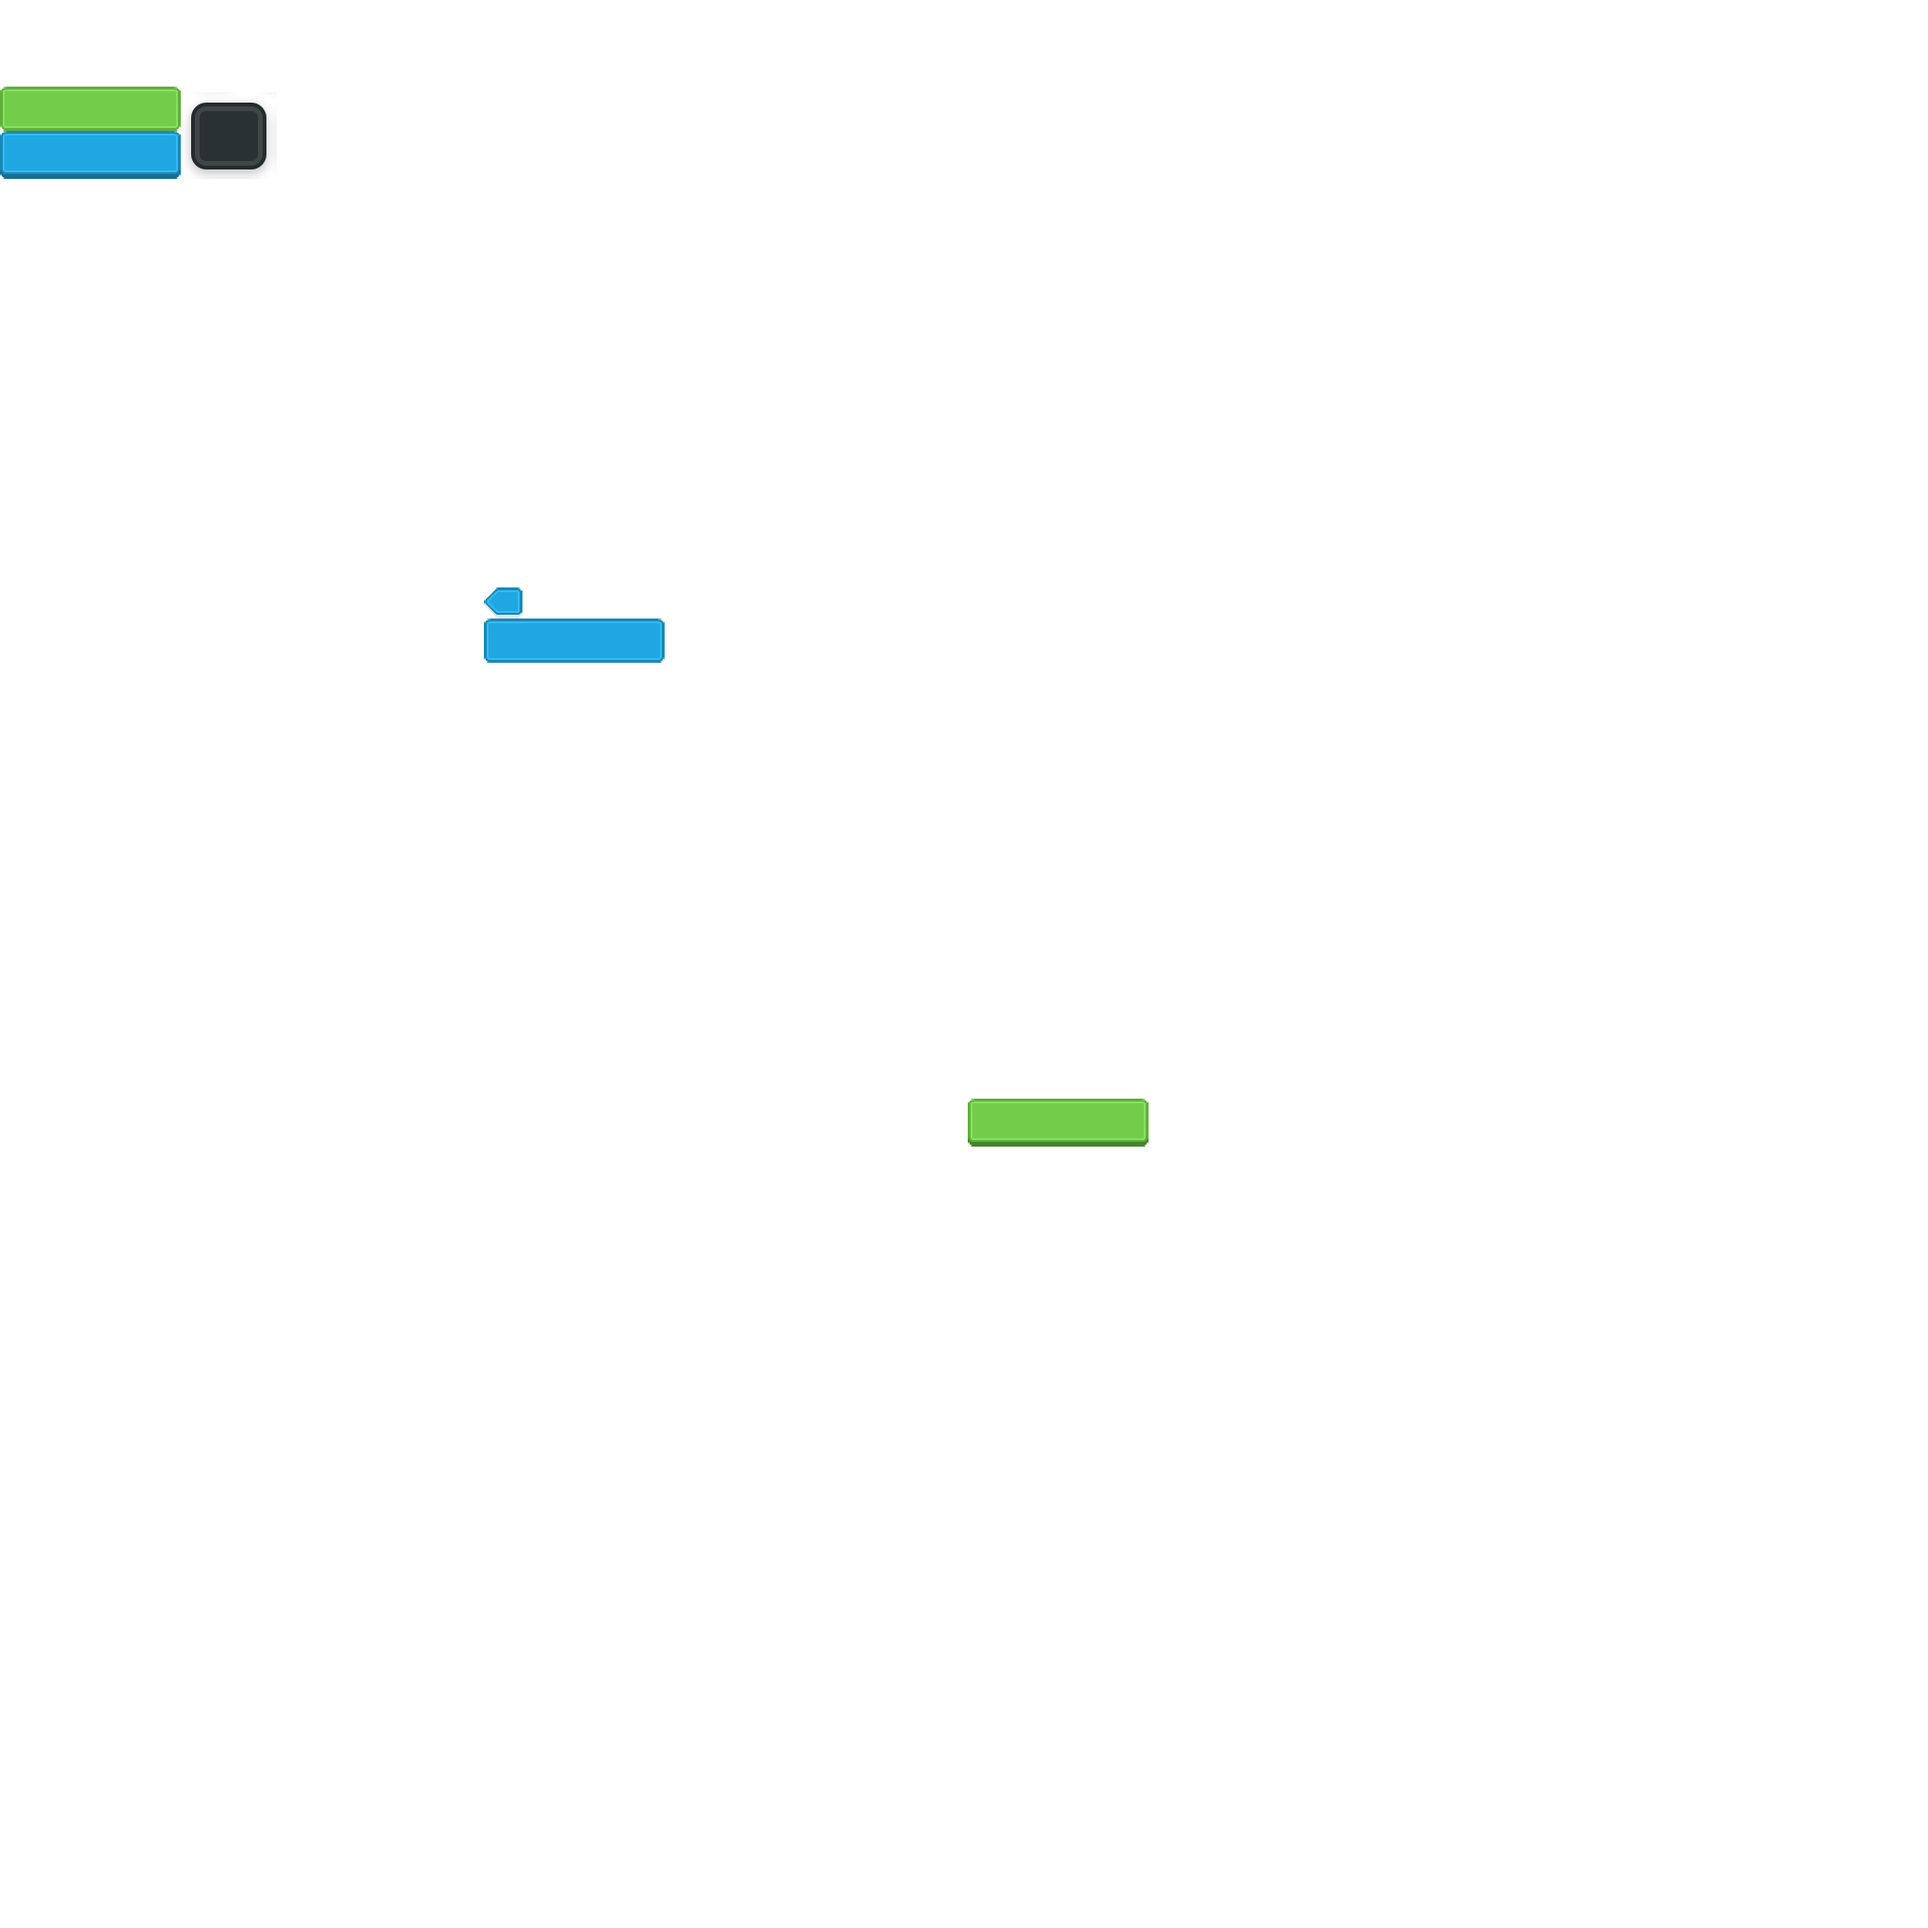
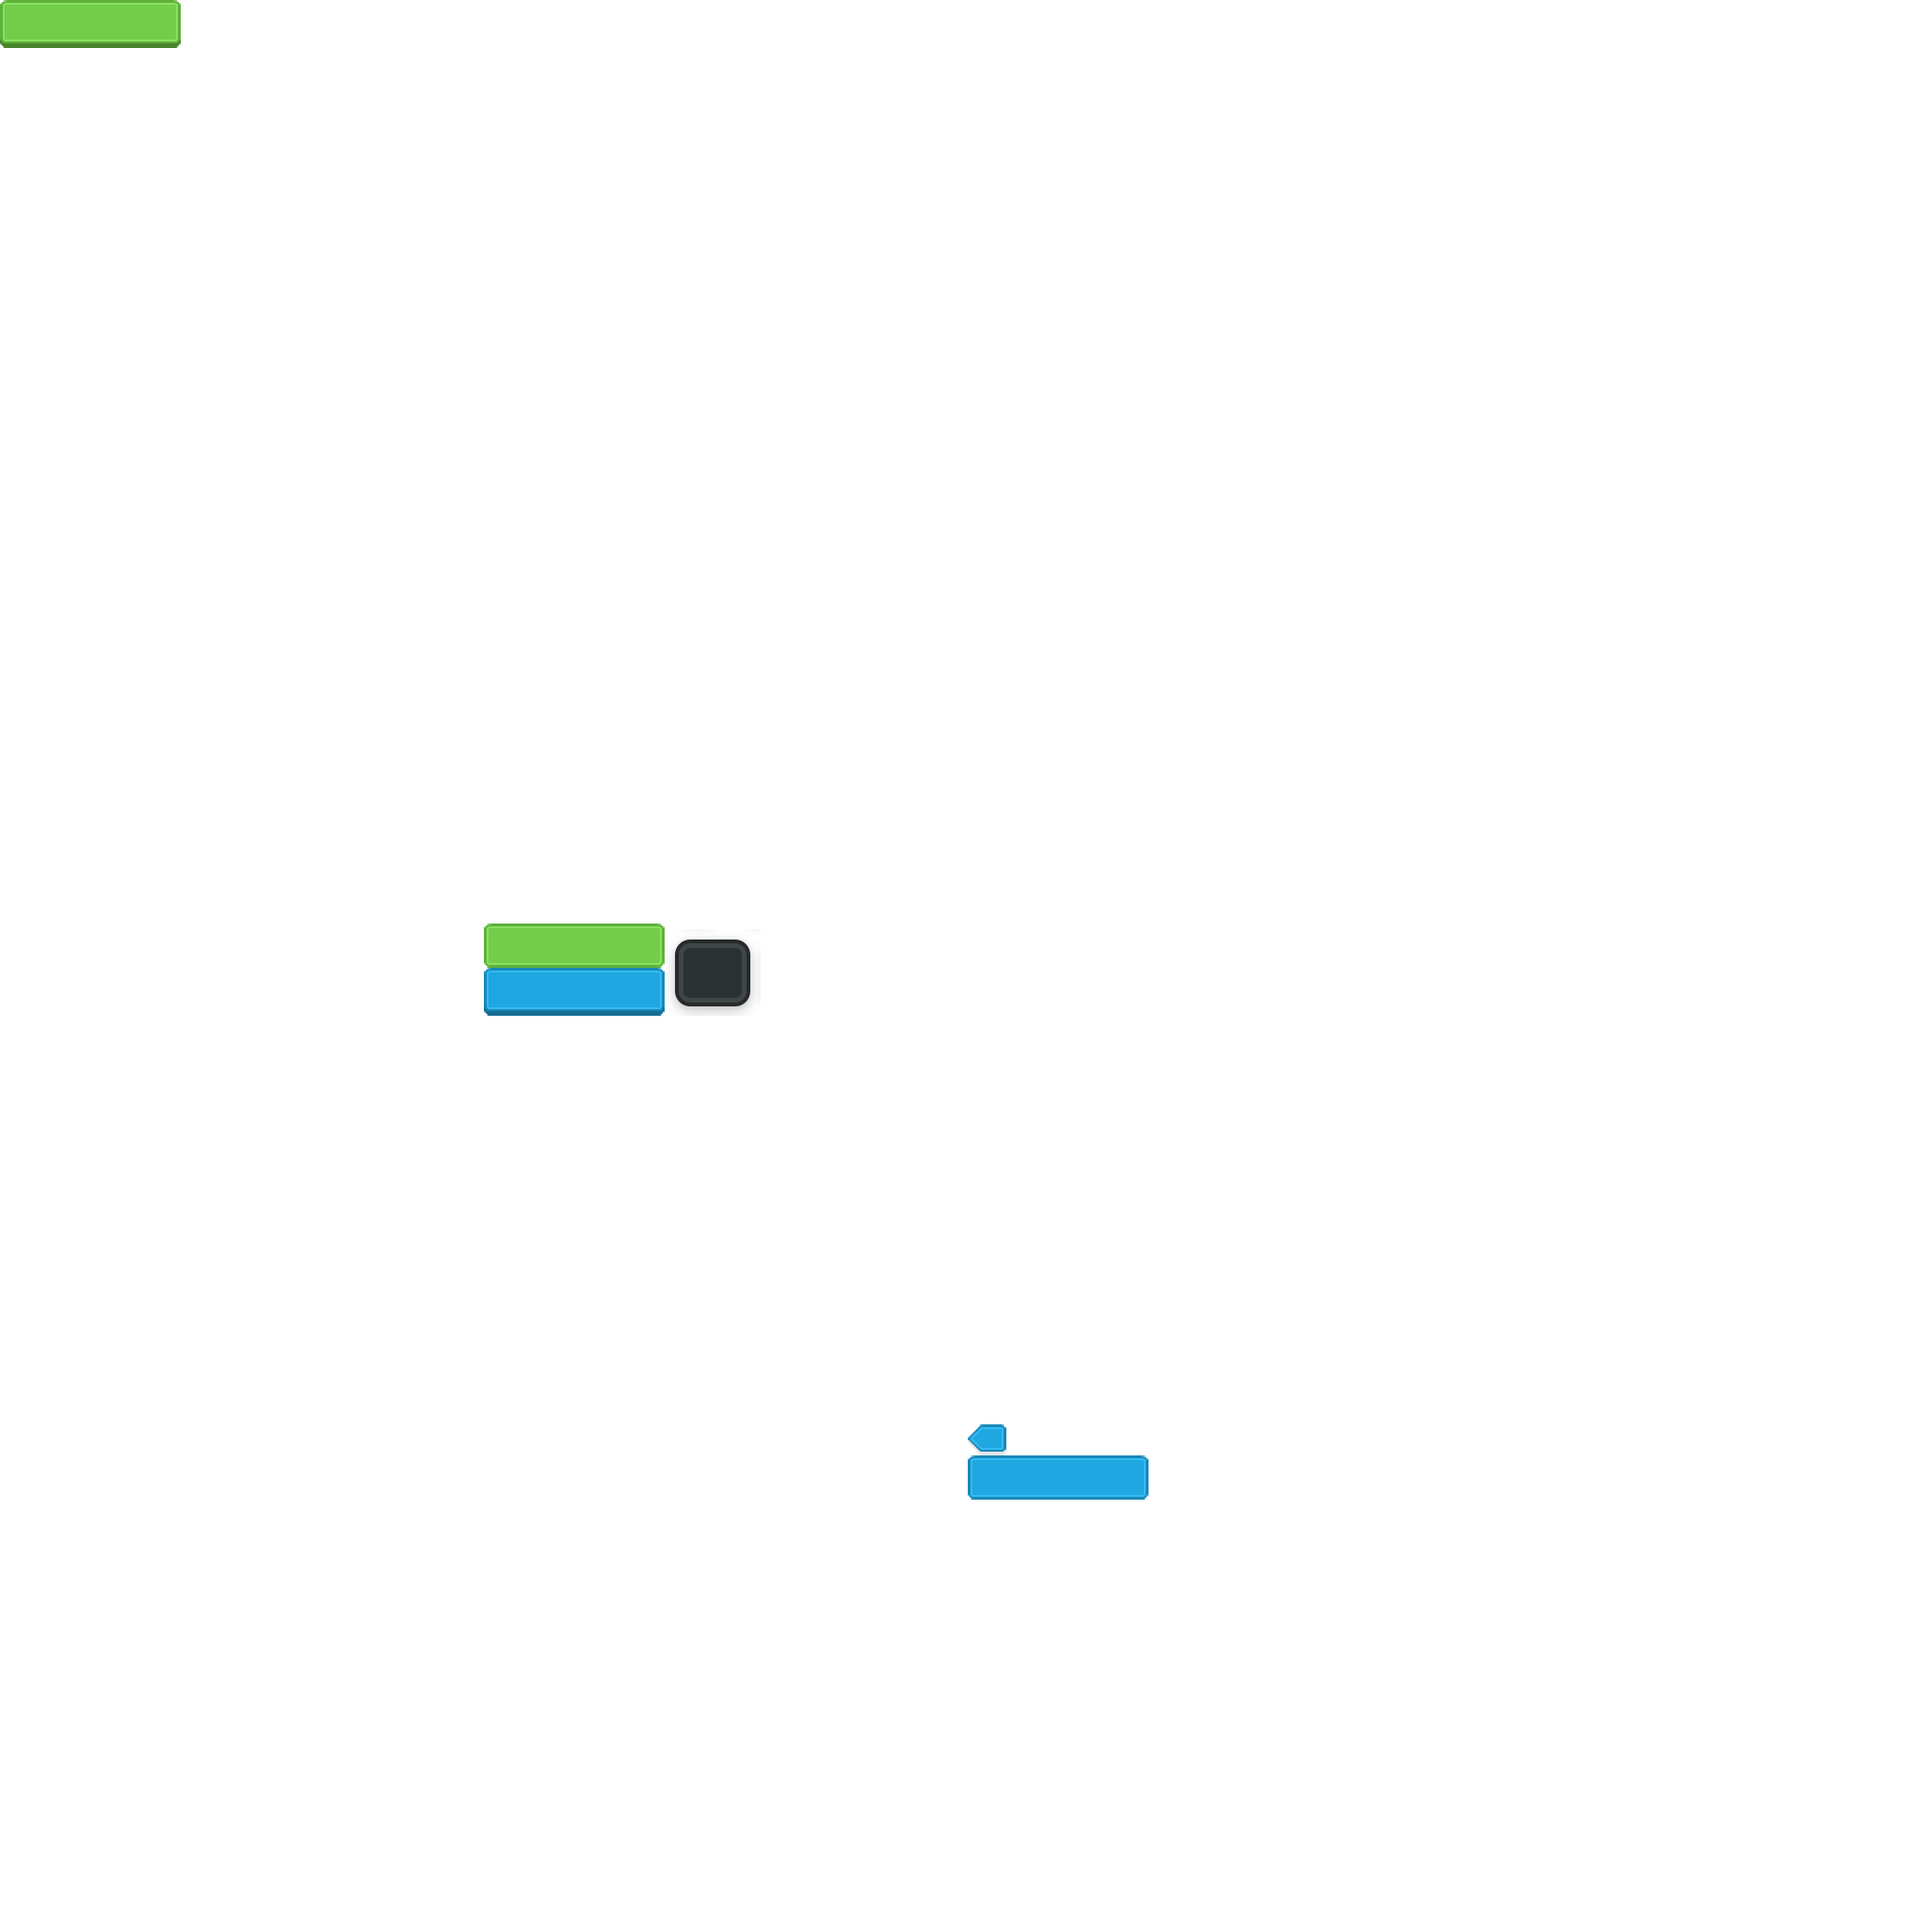
Add connection indicator

diff --git a/core/src/com/jaeheonshim/ersgame/screen/MainScreen.java b/core/src/com/jaeheonshim/ersgame/screen/MainScreen.java
@@ -13,6 +13,8 @@ import com.badlogic.gdx.utils.ScreenUtils;
 import com.badlogic.gdx.utils.viewport.ExtendViewport;
 import com.jaeheonshim.ersgame.ERSGame;
 import com.jaeheonshim.ersgame.game.CardType;
+import com.jaeheonshim.ersgame.net.ConnectionStatus;
+import com.jaeheonshim.ersgame.scene.ConnectionStatusLabel;
 import com.jaeheonshim.ersgame.scene.PileDisplayActor;
 import com.jaeheonshim.ersgame.scene.shaded.ERSLabel;
 import com.jaeheonshim.ersgame.scene.shaded.ERSTextButton;
@@ -28,6 +30,8 @@ public class MainScreen implements Screen {
     private PileDisplayActor sampleDisplay;
     private ERSTextButton createGameButton;
     private ERSTextButton joinGameButton;
+
+    private ConnectionStatusLabel connectionStatus;
 
     public MainScreen(ERSGame game) {
         this.game = game;
@@ -56,6 +60,10 @@ public class MainScreen implements Screen {
 
         joinGameButton = new ERSTextButton("Join Game", skin, "green", game);
         table.add(joinGameButton).expandX().fill().center().padBottom(20).padLeft(32).padRight(32);
+        table.row();
+
+        connectionStatus = new ConnectionStatusLabel( skin, game);
+        table.add(connectionStatus).expandY().bottom().right().pad(8);
 
         joinGameButton.addListener(new ClickListener() {
             @Override

diff --git a/core/src/com/jaeheonshim/ersgame/scene/ConnectionStatusLabel.java b/core/src/com/jaeheonshim/ersgame/scene/ConnectionStatusLabel.java
@@ -1,0 +1,30 @@
+package com.jaeheonshim.ersgame.scene;
+
+import com.badlogic.gdx.scenes.scene2d.ui.Skin;
+import com.jaeheonshim.ersgame.ERSGame;
+import com.jaeheonshim.ersgame.net.NetManager;
+import com.jaeheonshim.ersgame.scene.shaded.ERSLabel;
+
+import javax.management.MBeanRegistration;
+
+public class ConnectionStatusLabel extends ERSLabel {
+    public ConnectionStatusLabel(Skin skin, ERSGame game) {
+        super("Disconnected", skin, "small", game);
+    }
+
+    @Override
+    public void act(float delta) {
+        super.act(delta);
+        switch (NetManager.getInstance().getConnectionStatus()) {
+            case CONNECTED:
+                setText("Connected");
+                break;
+            case CONNECTING:
+                setText("Connecting...");
+                break;
+            case DISCONNECTED:
+                setText("Disconnected");
+                break;
+        }
+    }
+}

diff --git a/core/src/com/jaeheonshim/ersgame/net/NetClient.java b/core/src/com/jaeheonshim/ersgame/net/NetClient.java
@@ -1,13 +1,20 @@
 package com.jaeheonshim.ersgame.net;
 
+import org.java_websocket.WebSocket;
 import org.java_websocket.client.WebSocketClient;
+import org.java_websocket.framing.Framedata;
 import org.java_websocket.handshake.ServerHandshake;
 
 import java.net.URI;
 import java.net.URISyntaxException;
+import java.util.concurrent.Executors;
+import java.util.concurrent.ScheduledExecutorService;
+import java.util.concurrent.TimeUnit;
 
 public class NetClient extends WebSocketClient {
     private NetManager netManager;
+
+    private ScheduledExecutorService scheduledExecutorService = Executors.newSingleThreadScheduledExecutor();
 
     public NetClient(NetManager netManager) throws URISyntaxException {
         super(new URI("ws://localhost:8887"));

diff --git a/desktop/src/com/jaeheonshim/ersgame/desktop/DesktopLauncher.java b/desktop/src/com/jaeheonshim/ersgame/desktop/DesktopLauncher.java
@@ -4,10 +4,14 @@ import com.badlogic.gdx.backends.lwjgl.LwjglApplication;
 import com.badlogic.gdx.backends.lwjgl.LwjglApplicationConfiguration;
 import com.badlogic.gdx.tools.texturepacker.TexturePacker;
 import com.jaeheonshim.ersgame.ERSGame;
+import com.jaeheonshim.ersgame.net.NetManager;
+
+import java.net.URISyntaxException;
 
 public class DesktopLauncher {
-	public static void main (String[] arg) {
-		System.out.println("Working Directory = " + System.getProperty("user.dir"));
+	public static void main (String[] arg) throws URISyntaxException {
+		NetManager.initialize();
+
 		TexturePacker.Settings settings = new TexturePacker.Settings();
 		settings.maxWidth = 2048;
 		settings.maxHeight = 2048;

diff --git a/core/src/com/jaeheonshim/ersgame/net/listener/ConnectPacketListener.java b/core/src/com/jaeheonshim/ersgame/net/listener/ConnectPacketListener.java
@@ -12,7 +12,7 @@ public class ConnectPacketListener extends SocketPacketListener {
     @Override
     public boolean receive(SocketPacket packet) {
         if(packet instanceof SocketConnectPacket) {
-            NetManager.getInstance().setConnectionStatus(ConnectionStatus.CONNECTING);
+            NetManager.getInstance().setConnectionStatus(ConnectionStatus.CONNECTED);
             NetManager.getInstance().setClientUuid(((SocketConnectPacket) packet).uuid);
 
             Gdx.app.log("NET", String.format("Connected to server! UUID: %s", NetManager.getInstance().getClientUuid()));

diff --git a/core/src/com/jaeheonshim/ersgame/net/NetManager.java b/core/src/com/jaeheonshim/ersgame/net/NetManager.java
@@ -12,6 +12,8 @@ import java.io.IOException;
 import java.net.URISyntaxException;
 import java.util.ArrayList;
 import java.util.List;
+import java.util.concurrent.Executors;
+import java.util.concurrent.ScheduledExecutorService;
 
 public class NetManager {
     private NetClient client;
@@ -19,7 +21,6 @@ public class NetManager {
 
     private ConnectionStatus connectionStatus = ConnectionStatus.DISCONNECTED;
     private String clientUuid;
-
     private static NetManager instance;
 
     public static NetManager getInstance() {

diff --git a/core/src/com/jaeheonshim/ersgame/ERSGame.java b/core/src/com/jaeheonshim/ersgame/ERSGame.java
@@ -45,8 +45,9 @@ public class ERSGame extends Game {
 		mainScreen = new MainScreen(this);
 		joinGameScreen = new JoinGameScreen(this);
 		createGameScreen = new CreateGameScreen(this);
-//		NetManager.getInstance().connect();
 		RandomNameGenerator.initialize();
+
+		NetManager.getInstance().connect();
 		setScreen(mainScreen);
 	}
 

diff --git a/server/src/main/java/com/jaeheonshim/ersgame/server/ERSServer.java b/server/src/main/java/com/jaeheonshim/ersgame/server/ERSServer.java
@@ -36,7 +36,7 @@ public class ERSServer extends WebSocketServer {
 
     @Override
     public void onMessage(WebSocket conn, String message) {
-
+        System.out.println(message);
     }
 
     @Override
